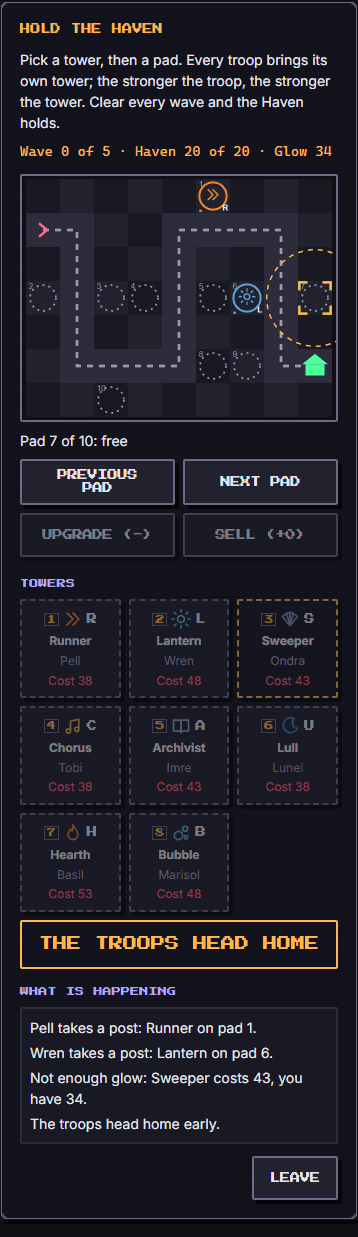
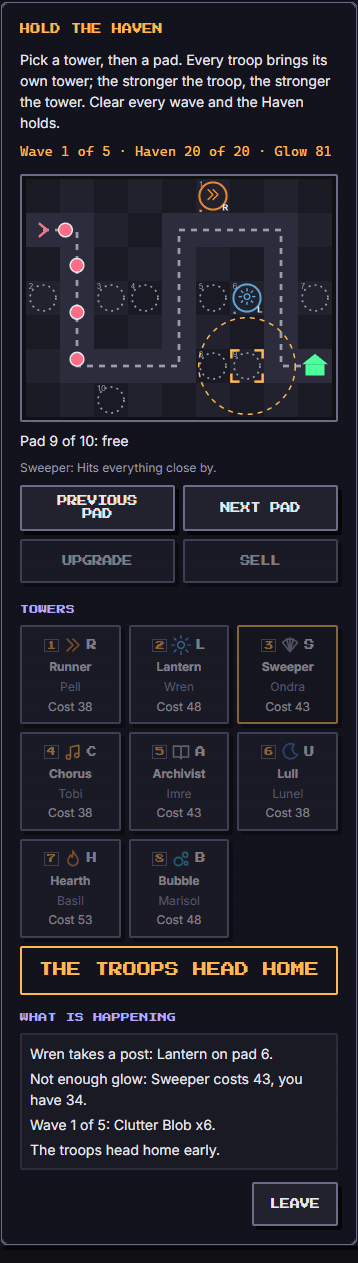
fix(games): Hold the Haven same-seed e2e through Bot play, retaken screenshots [game-tower-defense]
The replay test compares two Bot play runs of the same seed (deterministic) and
checks the Replay button restarts a fresh game; screenshots retaken, the end
shot is now a mid-wave forfeit with towers and monsters on the board.

diff --git a/e2e/games/tower-defense.spec.ts b/e2e/games/tower-defense.spec.ts
@@ -6,7 +6,7 @@
  * Bot play and the real UI is used for a few inputs only.
  */
 import { expect, test, type Page } from '@playwright/test';
-import { botPlayToOutcome, expectNoSeriousA11yViolations, expectResponsiveGame, expectValidOutcome, openLab, readOutcome, replaySameSeed, shootGame } from './lab-helpers';
+import { botPlayToOutcome, expectNoSeriousA11yViolations, expectResponsiveGame, expectValidOutcome, openLab, readOutcome, shootGame } from './lab-helpers';
 
 const ID = 'tower-defense';
 
@@ -70,15 +70,20 @@ test('plays a gentle game to an outcome', async ({ page }, testInfo) => {
   await shootGame(page, testInfo, ID, 'end');
 });
 
-// 4. Required: replaying the same seed gives the same outcome. The real-time clock would make a played game depend on timing
-// (the glow earned grows every second), so both runs go through the Lab's Bot play, which is deterministic.
+// 4. Required: the same seed gives the same outcome. The real-time clock would make a played game depend on timing (the glow earned
+// grows every second), so the replay goes through the Lab's Bot play, which is deterministic: two runs of the same seed must match.
+// (The Lab's "Replay same seed" button clears the previous result, so it is used afterwards, to check that the game restarts fresh.)
 test('replaying the same seed gives the same outcome', async ({ page }) => {
   await openLab(page, ID, { seed: 42, difficulty: 1 });
-  const outcome = await replaySameSeed(page, async () => {
-    await botPlayToOutcome(page);
-  });
-  expect(['won', 'lost']).toContain(outcome.result);
-  expect(outcome.log).toMatch(/The path: /);
+  const first = await botPlayToOutcome(page);
+  const second = await botPlayToOutcome(page);
+  expect(second).toEqual(first);
+  await expect(page.getByTestId('lab-compare')).toHaveText('Matches the previous run.');
+  expect(['won', 'lost']).toContain(first.result);
+  expect(first.log).toMatch(/The path: /);
+  await expectValidOutcome(page);
+  await page.getByRole('button', { name: 'Replay same seed' }).click();
+  await expect(hud(page)).toContainText('Wave 0 of 5');
 });
 
 // This game's own checks.
